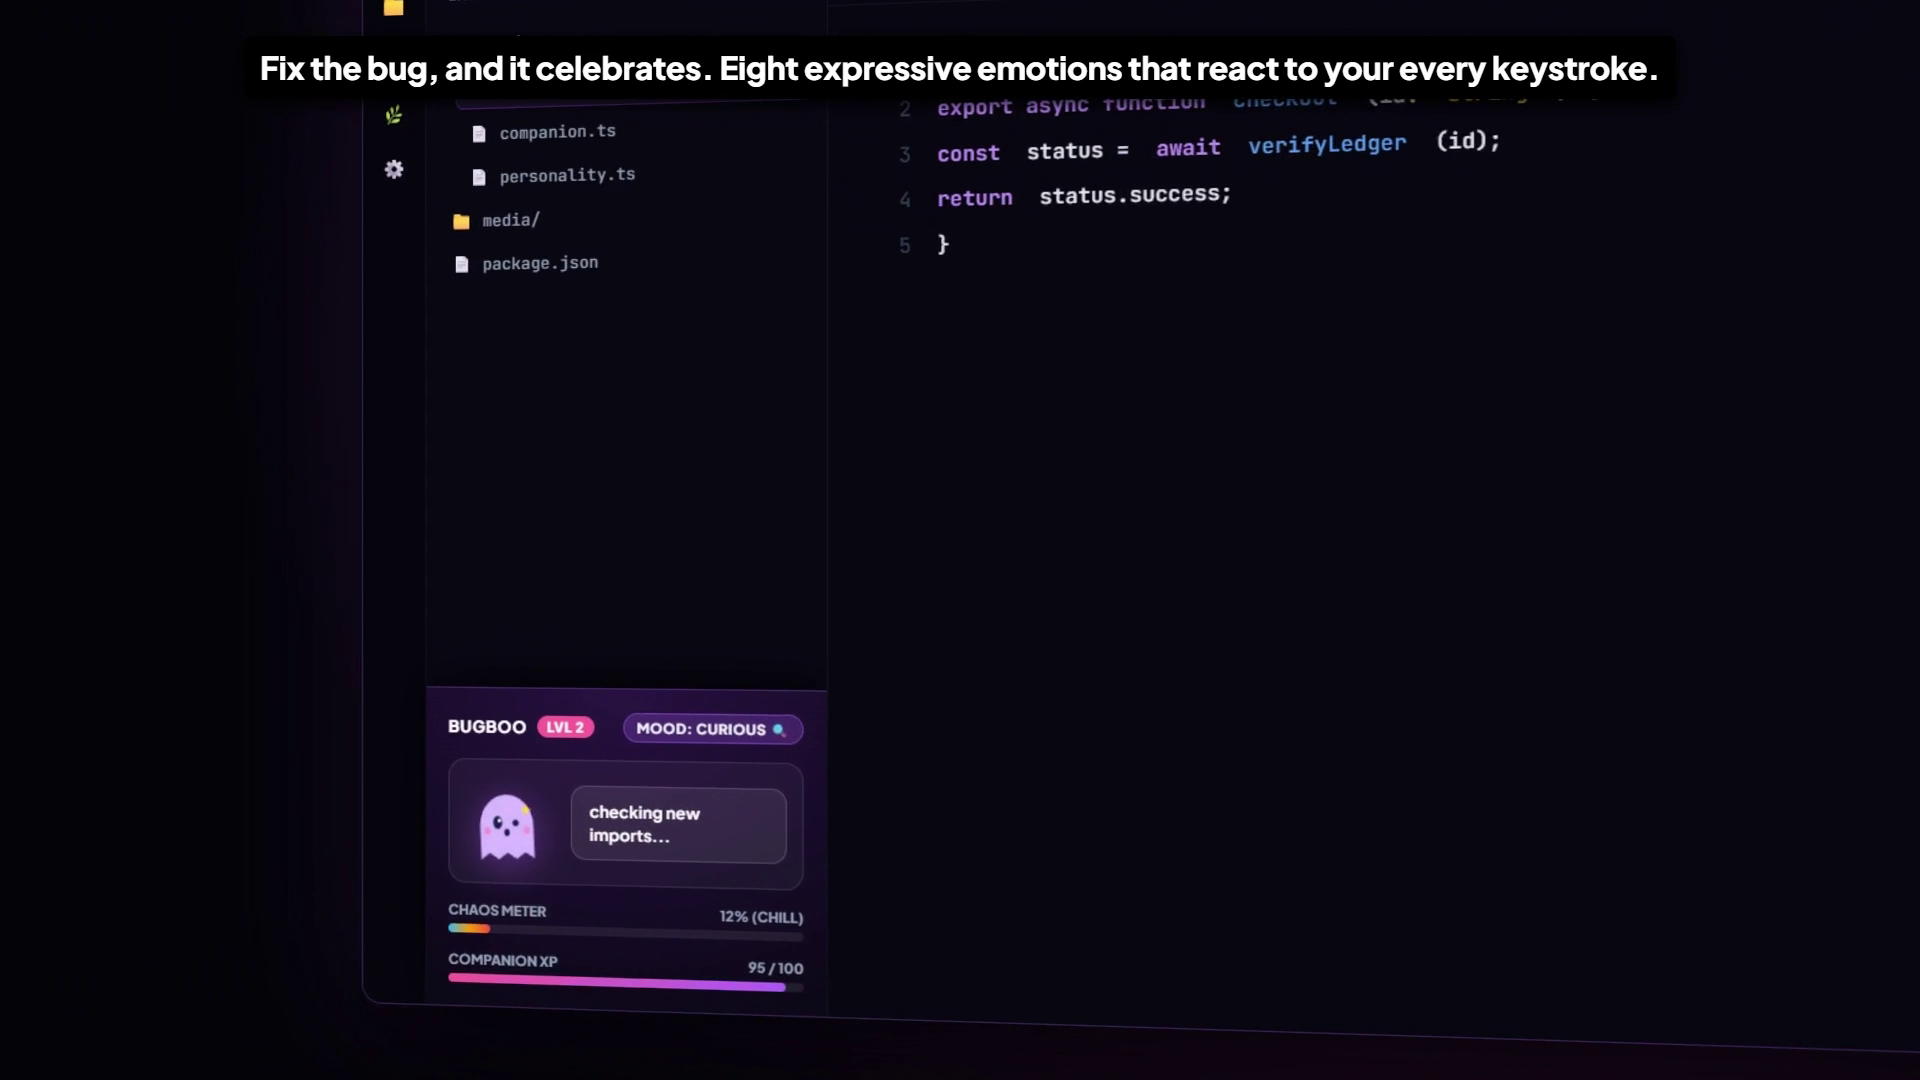
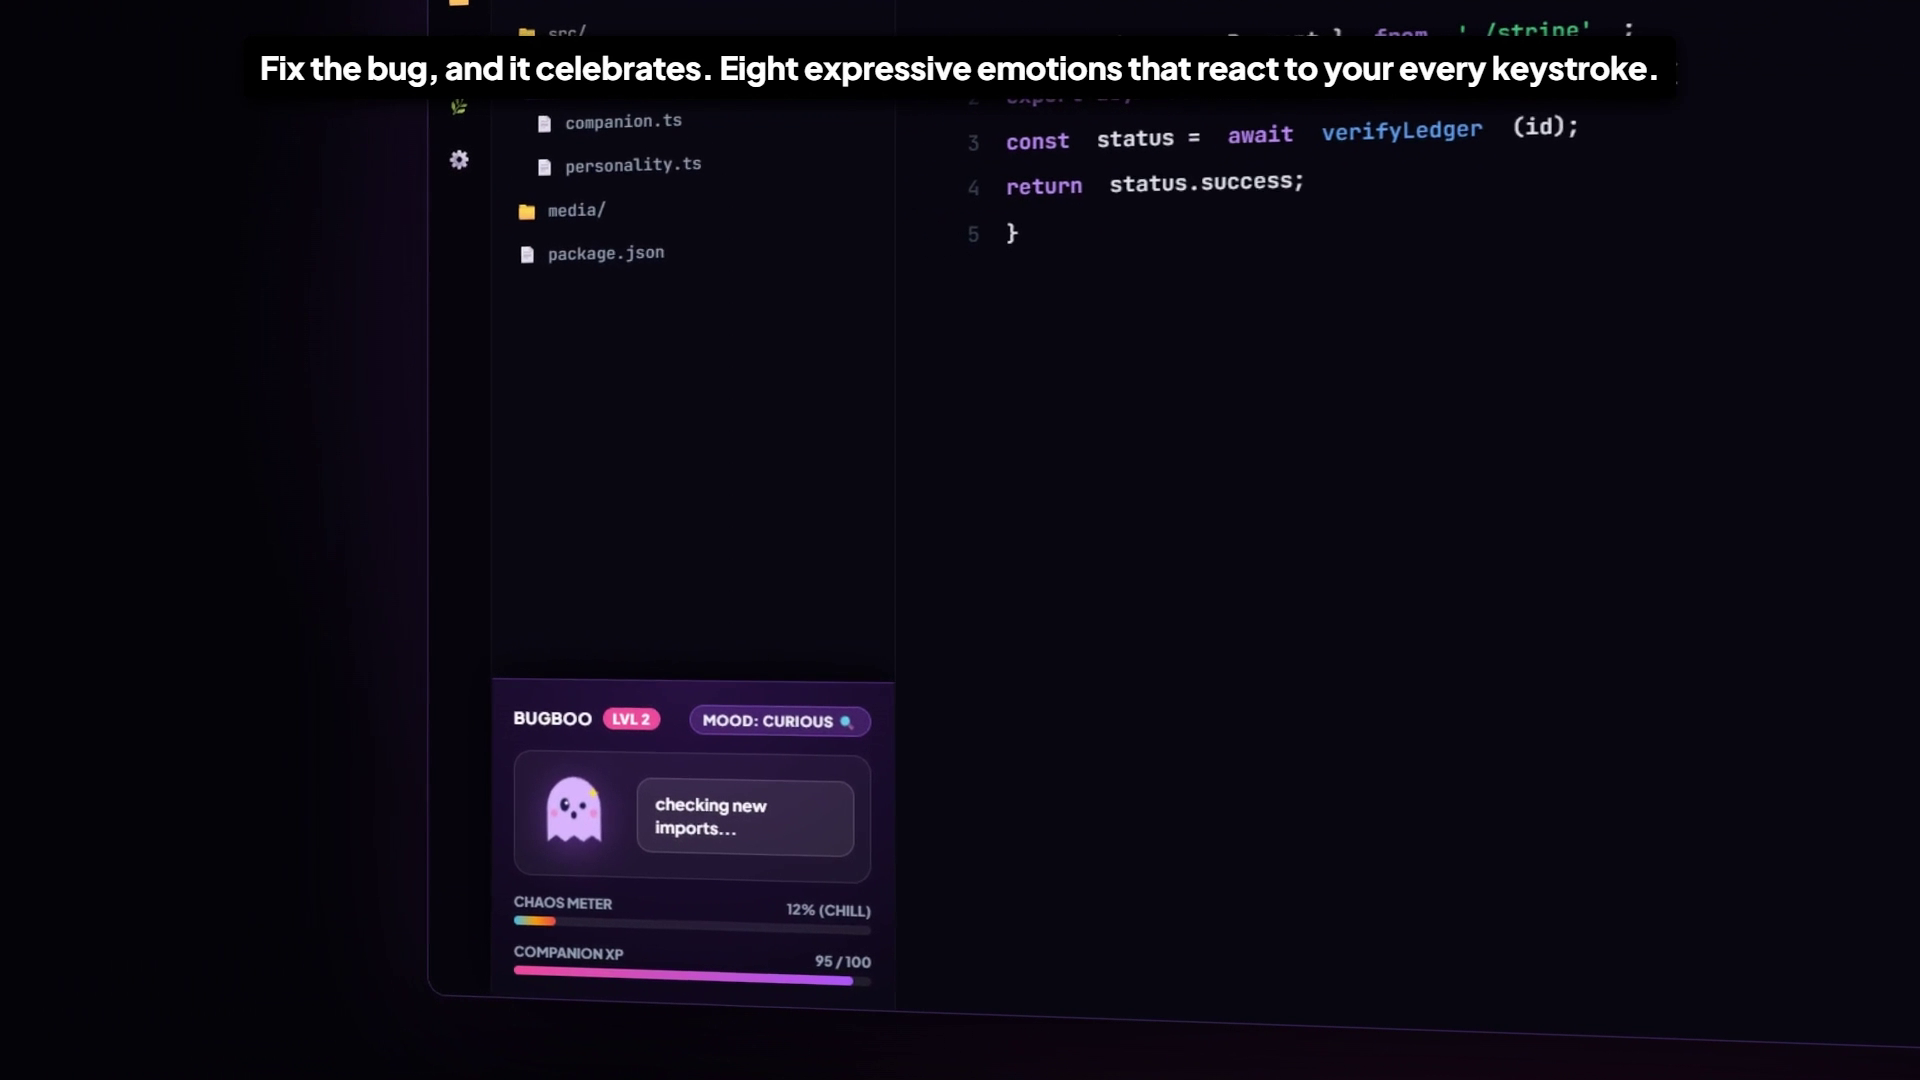
docs: add inline animated video showcase and high-clarity feature screenshots

diff --git a/README.md b/README.md
@@ -6,11 +6,13 @@ BugBoo provides real-time ambient feedback based on editor events, file navigati
 
 ---
 
-## Showcase Video
+## Showcase
 
-https://github.com/kiranmayee-abbireddy/BugBoo/raw/master/BugBoo.mp4
+[![BugBoo Showcase](media/showcase-preview.gif)](https://github.com/kiranmayee-abbireddy/BugBoo/raw/master/BugBoo.mp4)
 
-> **Watch the full showcase video above** to see BugBoo's fluid dock animations, AI awareness, real-time error reactions, and emotion transitions in action.
+> 📹 **[Click here to watch or download the full 1080p video with audio (BugBoo.mp4)](https://github.com/kiranmayee-abbireddy/BugBoo/raw/master/BugBoo.mp4)**.
+>
+> *(GitHub markdown natively prevents raw `<video>` playback for security, so the high-framerate animated preview is embedded above for instant playback inside GitHub, with a direct link to the full narrated HD video).*
 
 ---
 
